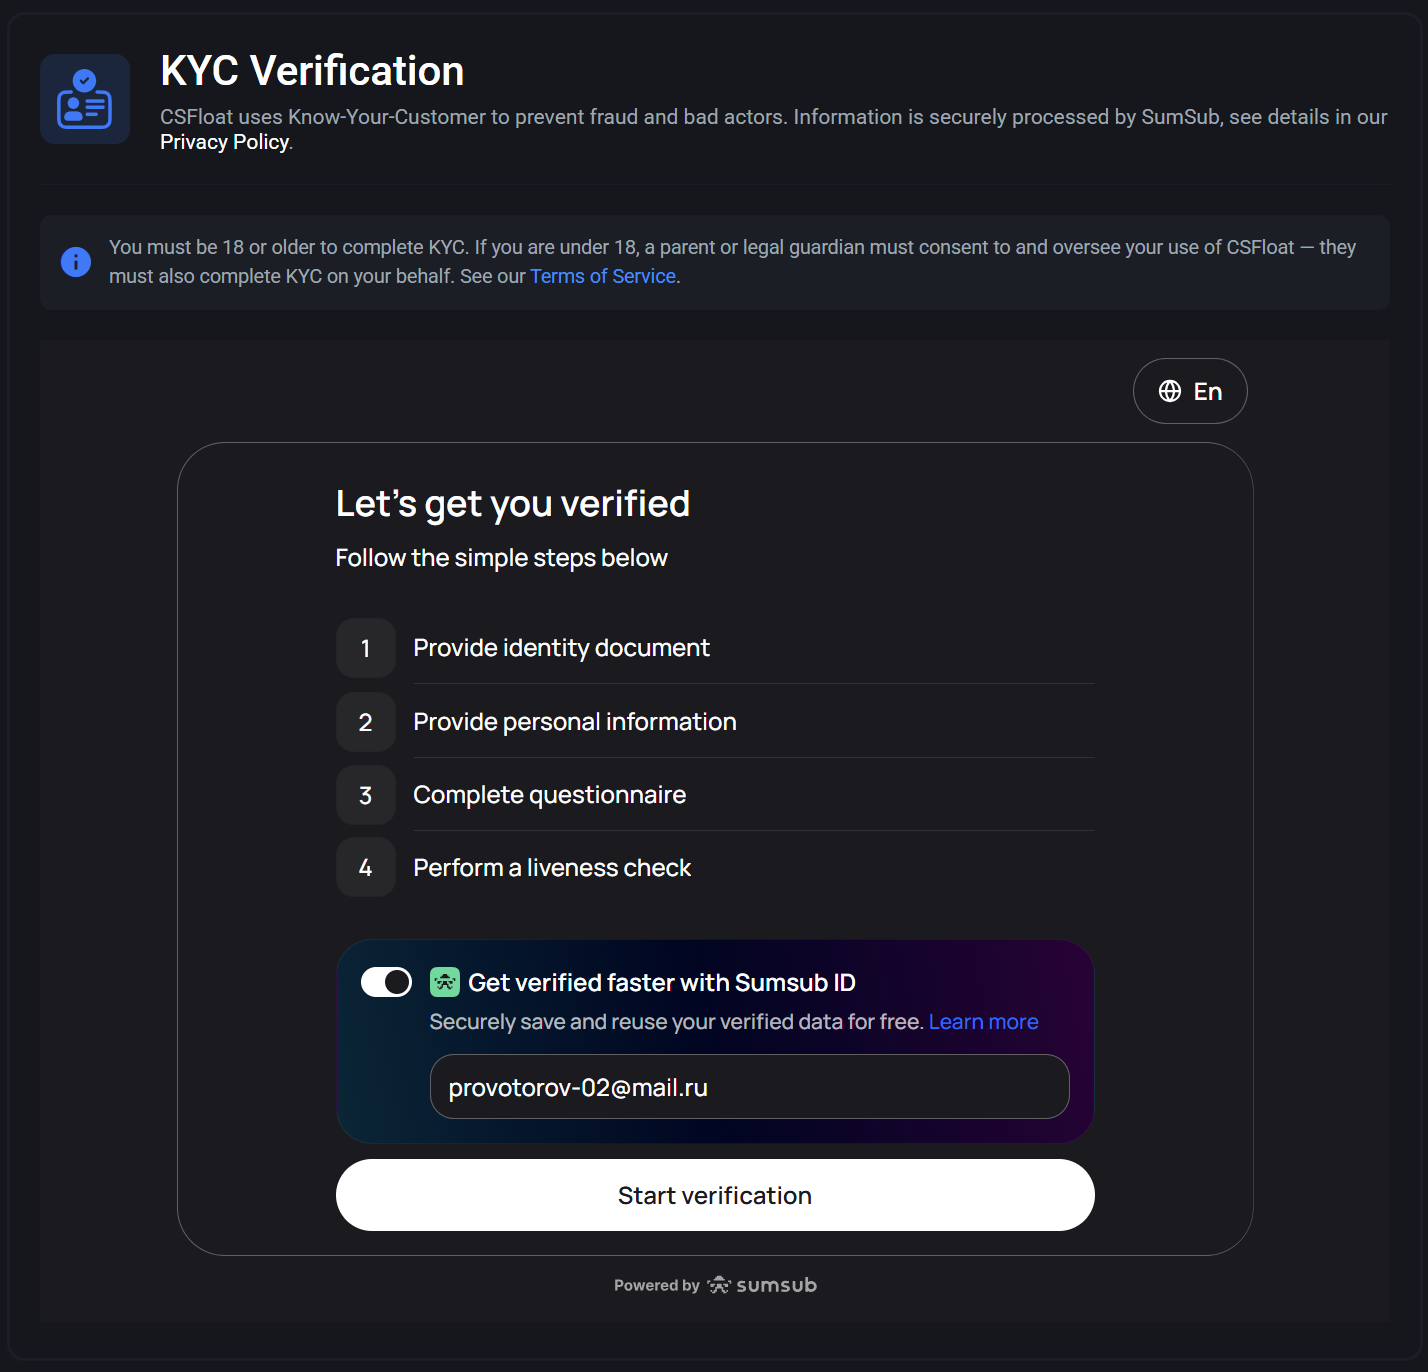
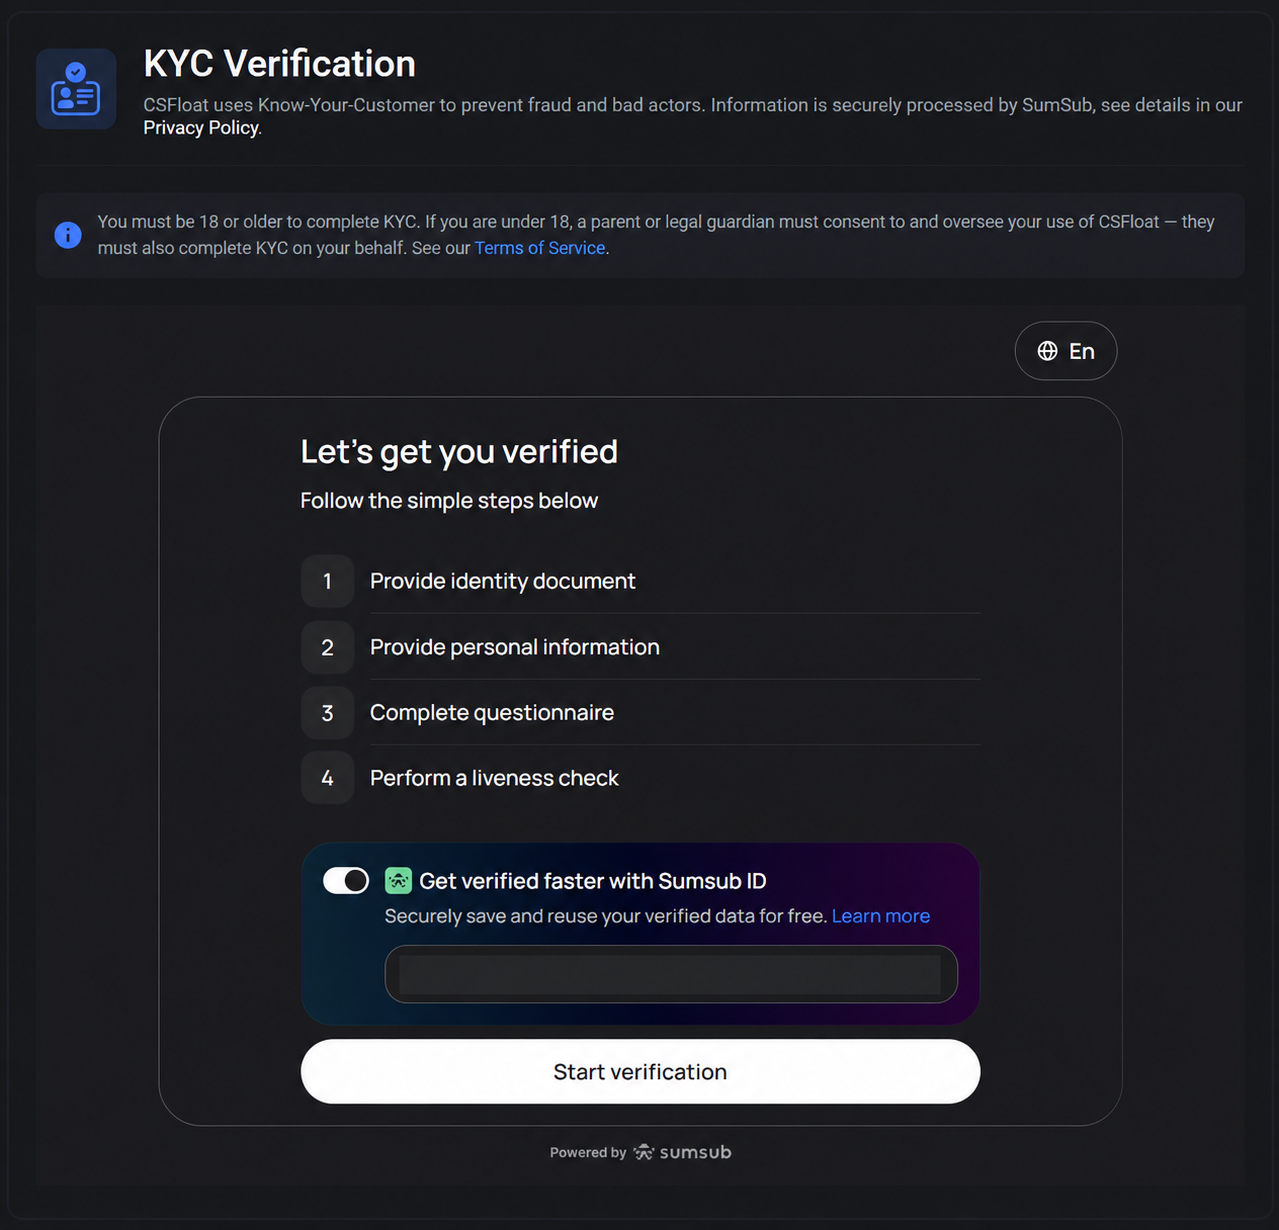
upd
finished tutorial with screenshot addition

diff --git a/user-docs/.vitepress/theme/custom.css b/user-docs/.vitepress/theme/custom.css
@@ -92,6 +92,10 @@ body {
 .doc-video { margin: 26px 0; }
 .doc-video iframe { display: block; width: 100%; aspect-ratio: 16/9; border: 1px solid var(--vp-c-border); background: #090b0a; }
 .doc-video small { display: block; margin-top: 10px; color: var(--vp-c-text-3); line-height: 1.55; }
+.doc-shot { width: fit-content; max-width: 100%; margin: 24px 0; padding: 8px; border: 1px solid var(--vp-c-border); background: var(--ycs-panel); }
+.doc-shot--telegram { max-width: min(100%, 560px); }
+.doc-shot img { display: block; max-width: 100%; height: auto; margin: 0; border: 0; border-radius: 0; }
+.doc-shot figcaption { padding: 9px 4px 2px; color: var(--vp-c-text-3); font-size: 12px; line-height: 1.5; }
 .payment-flow { display: grid; grid-template-columns: repeat(2, 1fr); gap: 10px; margin: 26px 0; counter-reset: payment; }
 .payment-flow div { min-height: 150px; padding: 20px; display: flex; flex-direction: column; border: 1px solid var(--vp-c-border); background: var(--ycs-panel); }
 .payment-flow b { color: var(--ycs-accent-soft); font: 750 10px/1 var(--vp-font-family-mono); }

diff --git a/docs/user-docs-image-plan.md b/docs/user-docs-image-plan.md
@@ -1,21 +1,21 @@
 # Скриншоты туториала Y.CS
 
-Статус на 23 сентября 2026 года. Все файлы размещаются в `user-docs/public/images/` и сохраняются в PNG. Скриншот QuickConfig™ не нужен: начальная конфигурация уже готова.
+Статус на 24 сентября 2026 года. Все файлы размещены в `user-docs/public/images/` в формате PNG и встроены в соответствующие страницы туториала. Скриншот QuickConfig™ не нужен: начальная конфигурация уже готова.
 
 | № | Что показывает | Файл | Статус |
 |---|---|---|---|
-| 1 | Титульное меню `/start` | `bot/start-menu.png` | Получен |
-| 2 | Начало KYC на CSFloat | `csfloat/kyc-start.png` | Получен |
-| 3 | Пополнение CSFloat | `csfloat/deposit-method.png` | Получен |
-| 4 | API-ключ CSFloat | `csfloat/developers-api-key.png` | Получен |
-| 5 | Steam Trade URL | `steam/trade-url.png` | Получен |
-| 6 | Добавление аккаунта покупки | `bot/add-purchase-account.png` | Получен |
-| 7 | API-ключ Market.CS | `platforms/marketcs-api-key.png` | Получен |
-| 8 | Добавление автопродажи | `bot/add-sale-account.png` | Получен |
-| 9 | Добавление Worker | `bot/add-worker.png` | Получен |
-| 10 | Включение Bargain в `/deep` | `bot/enable-bargain.png` | Ожидается |
-| 11 | Включение покупки и продажи в `/user` | `bot/enable-trading.png` | Ожидается |
-| 12 | `/portfolio → Ожидание` | `portfolio/waiting.png` | Ожидается |
-| 13 | `/portfolio → История продаж` | `portfolio/sales-history.png` | Ожидается |
+| 1 | Титульное меню `/start` | `bot/start-menu.png` | Размещён |
+| 2 | Начало KYC на CSFloat | `csfloat/kyc-start.png` | Размещён |
+| 3 | Пополнение CSFloat | `csfloat/deposit-method.png` | Размещён |
+| 4 | API-ключ CSFloat | `csfloat/developers-api-key.png` | Размещён |
+| 5 | Steam Trade URL | `steam/trade-url.png` | Размещён |
+| 6 | Добавление аккаунта покупки | `bot/add-purchase-account.png` | Размещён |
+| 7 | API-ключ Market.CS | `platforms/marketcs-api-key.png` | Размещён |
+| 8 | Добавление автопродажи | `bot/add-sale-account.png` | Размещён |
+| 9 | Добавление Worker | `bot/add-worker.png` | Размещён |
+| 10 | Включение Bargain в `/deep` | `bot/enable-bargain.png` | Размещён |
+| 11 | Включение покупки и продажи в `/user` | `bot/enable-trading.png` | Размещён |
+| 12 | `/portfolio → Ожидание` | `portfolio/waiting.png` | Размещён |
+| 13 | `/portfolio → История продаж` | `portfolio/sales-history.png` | Размещён |
 
-Перед публикацией на скриншотах нужно закрыть API-ключи, Steam Trade Token, пароли, Telegram ID, адреса кошельков и другие личные данные. Полученные файлы пока не встроены в страницы: сначала проверим их содержание и разместим в нужных шагах.
+Перед размещением на KYC-скриншоте скрыт адрес почты, на Steam-скриншоте — Trade URL с токеном. Исходные файлы сохранены вне публичной папки. На `enable-trading.png` обе кнопки включения показаны одним скриншотом.

diff --git a/user-docs/observe/history.md b/user-docs/observe/history.md
@@ -6,9 +6,13 @@
 
 Быстрый путь: отправьте команду `/portfolio` и нажмите **Ожидание**. Здесь находятся предметы, для которых ещё не завершён текущий этап. В сообщении отображается **перспективный заработок** по ожидающим предметам. Вкладка **Общая** показывает покупки и продажи вместе.
 
+<figure class="doc-shot doc-shot--telegram"><img src="/images/portfolio/waiting.png" alt="В меню портфеля выделена кнопка Ожидание" loading="lazy" decoding="async"><figcaption>В /portfolio нажмите «Ожидание».</figcaption></figure>
+
 ## История продаж
 
 Быстрый путь: отправьте команду `/portfolio` и нажмите **История → Продажи**. Здесь видны завершённые продажи, их результат и **текущий заработок** за выбранный период. Период можно выбрать готовой кнопкой или отправить своё число дней.
+
+<figure class="doc-shot doc-shot--telegram"><img src="/images/portfolio/sales-history.png" alt="В меню выбора типа истории выделена кнопка Продажа" loading="lazy" decoding="async"><figcaption>После кнопки «История» выберите «Продажа».</figcaption></figure>
 
 ::: tip Проверяйте спокойно
 Предмет в ожидании не означает ошибку. Сначала сопоставьте его возраст со стандартной задержкой Steam.

diff --git a/user-docs/connect/account.md b/user-docs/connect/account.md
@@ -11,6 +11,10 @@
 5. Следующим сообщением бот попросит Steam Trade URL. Откройте **[страницу торговых предложений Steam](https://steamcommunity.com/id/me/tradeoffers/privacy)**, скопируйте свою Trade URL и отправьте её ответом.
 6. Дождитесь сообщения об успешном подключении.
 
+<figure class="doc-shot doc-shot--telegram"><img src="/images/bot/add-purchase-account.png" alt="В меню добавления аккаунта бота выделена кнопка Покупка" loading="lazy" decoding="async"><figcaption>В /accounts → Добавить выберите «Покупка».</figcaption></figure>
+
+<figure class="doc-shot"><img src="/images/steam/trade-url.png" alt="Раздел Steam Third-Party Sites с полем Trade URL; значение ссылки скрыто" loading="lazy" decoding="async"><figcaption>Trade URL находится в разделе Third-Party Sites на странице предложений Steam.</figcaption></figure>
+
 Бот удаляет сообщения с API-ключом и Trade URL сразу после чтения. Аккаунт покупки автоматически определяется по Steam ID и связывается с остальными модулями того же Steam-аккаунта.
 
 ::: tip Первая операция CSFloat

diff --git a/user-docs/connect/autosell.md b/user-docs/connect/autosell.md
@@ -12,6 +12,10 @@
 6. **Ответьте ключом на сообщение бота.** После чтения бот сразу удалит ваш ответ из чата.
 7. Дождитесь подтверждения подключения.
 
+<figure class="doc-shot doc-shot--telegram"><img src="/images/bot/add-sale-account.png" alt="В меню добавления аккаунта бота выделена кнопка Продажа" loading="lazy" decoding="async"><figcaption>В /accounts → Добавить выберите «Продажа».</figcaption></figure>
+
+<figure class="doc-shot"><img src="/images/platforms/marketcs-api-key.png" alt="Настройки Market.CS с выделенным разделом Trading via API" loading="lazy" decoding="async"><figcaption>На Market.CS откройте Settings → Trading via API.</figcaption></figure>
+
 Система автоматически связывает аккаунт продажи с покупкой и Y.CS Worker™ по Steam ID. Вручную сопоставлять модули не требуется.
 
 ## Как работает автопродажа

diff --git a/user-docs/connect/launch.md b/user-docs/connect/launch.md
@@ -19,6 +19,8 @@
 4. Так же проверьте **Продажа**: красный кружок означает «выключено», зелёный — «работает».
 5. Y.CS Worker™ начинает обслуживать трейды своего Steam-аккаунта после отдельного подключения в `/accounts`.
 
+<figure class="doc-shot doc-shot--telegram"><img src="/images/bot/enable-trading.png" alt="В меню пользователя рядом выделены кнопки включения покупки и продажи" loading="lazy" decoding="async"><figcaption>В /user покупка и продажа включаются отдельными кнопками.</figcaption></figure>
+
 Если доступ к Y.CS Bargain™ уже открыт, проверьте режим через `/deep`. **[Как получить доступ к Y.CS Bargain™](/connect/bargain)**.
 
 <div class="success-check">Готово, если нужные направления отмечены зелёным, а в профиле выбран правильный аккаунт.</div>

diff --git a/user-docs/csfloat/keys.md b/user-docs/csfloat/keys.md
@@ -13,6 +13,8 @@ API-ключ позволяет Y.CS выполнять покупки на CSFl
 3. Копируйте значение целиком, без пробелов в начале и конце.
 4. В Y.CS отвечайте ключом на соответствующее сообщение бота. Бот удалит ваш ответ из чата сразу после получения.
 
+<figure class="doc-shot"><img src="/images/csfloat/developers-api-key.png" alt="Вкладка Developers в профиле CSFloat и раздел управления API-ключом" loading="lazy" decoding="async"><figcaption>Ключ создаётся во вкладке Developers.</figcaption></figure>
+
 ::: tip Интерфейс площадки может измениться
 Если раздел ключей выглядит иначе или ключ покупки не появился после сделки, отправьте скриншот без видимых ключей в [поддержку](https://t.me/youtradecs_sup).
 :::

diff --git a/user-docs/index.md b/user-docs/index.md
@@ -35,4 +35,6 @@ features:
 
 Вам не нужно изучать все разделы. Откройте **[чек-лист запуска](/start/checklist)** и выполняйте по одному пункту. Возле каждого шага написано, как понять, что всё получилось.
 
+<figure class="doc-shot doc-shot--telegram"><img src="/images/bot/start-menu.png" alt="Главное меню бота Y.CS с кнопками аккаунтов, портфеля и пополнения" loading="lazy" decoding="async"><figcaption>Главное меню бота: отсюда начинается настройка и пополнение.</figcaption></figure>
+
 > Если не хочется разбираться одному, напишите в [поддержку Y.CS](https://t.me/youtradecs_sup). Можно просто отправить: «Помогите начать с нуля».

diff --git a/user-docs/connect/bargain.md b/user-docs/connect/bargain.md
@@ -16,6 +16,8 @@
 2. Нажмите кнопку режима покупки, чтобы выбрать **Режим: Баргейны**.
 3. Вернитесь в `/user` и включите **Покупка**.
 
+<figure class="doc-shot doc-shot--telegram"><img src="/images/bot/enable-bargain.png" alt="Меню углублённых настроек с выделенной кнопкой Режим: Баргейны" loading="lazy" decoding="async"><figcaption>В /deep кнопка режима переключает обычную покупку и Bargain.</figcaption></figure>
+
 ::: info Можно начать без Y.CS Bargain™
 Обычная автопокупка работает без доступа к торгам. Однако без дополнительной скидки эффективность стратегии будет ниже максимальной.
 :::

diff --git a/user-docs/csfloat/funding.md b/user-docs/csfloat/funding.md
@@ -13,6 +13,8 @@
 
 После подписи дождитесь завершения платежа. Средства появятся на балансе CSFloat автоматически.
 
+<figure class="doc-shot"><img src="/images/csfloat/deposit-method.png" alt="Экран пополнения CSFloat: ввод суммы, выбор Crypto и итоговая комиссия" loading="lazy" decoding="async"><figcaption>Укажите сумму, выберите Crypto и проверьте итог перед оплатой.</figcaption></figure>
+
 ::: tip Посмотрите процесс в видео
 На странице **[аккаунт и верификация](/csfloat/account#видео-весь-путь-на-csfloat)** показан весь процесс работы с CSFloat, включая пополнение.
 :::
